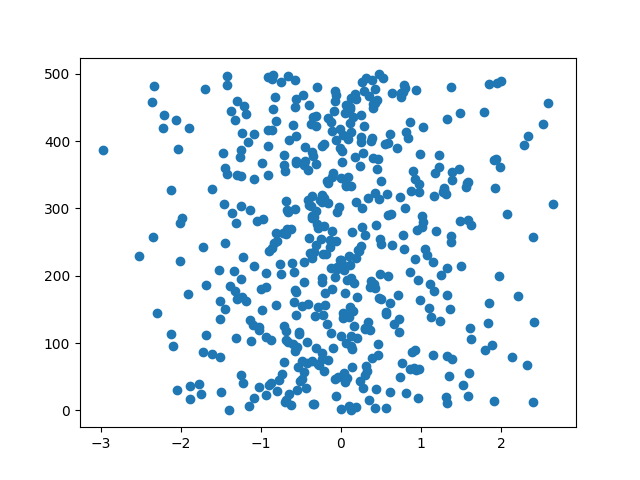
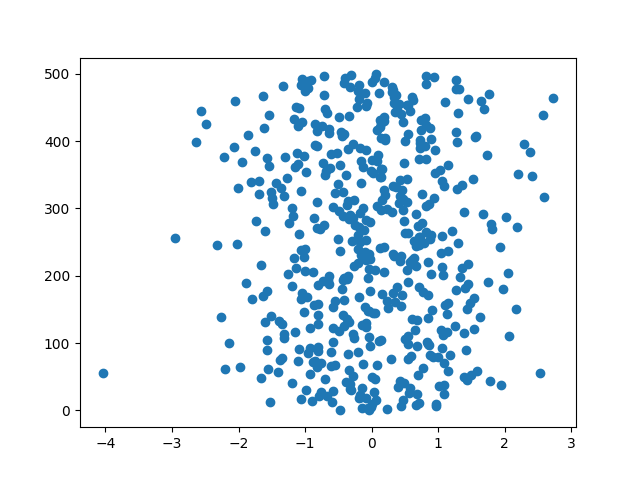
Sobol NEW normal works?

diff --git a/Normal_Sobol/Sobol_Gaussian.py b/Normal_Sobol/Sobol_Gaussian.py
@@ -104,27 +104,31 @@ class Random_generador(object):
         return data1
         ###########################################################
     def sobol_NEW_normal(self,scramble=False):
-        sampler = qmc.Sobol(d=1, scramble=scramble)
-        size_sobol = int(np.log(self.size)/np.log(2))
+        sampler = qmc.Sobol(d=2, scramble=scramble)
+        size_sobol = int(math.ceil(np.log(self.size/2)/np.log(2))) #int(np.log(self.size)/np.log(2))
         print("size = ",self.size," ;size Sobol = ",size_sobol)
-        sample1 = sampler.random_base2(m=size_sobol)
-        sample2 = sampler.random_base2(m=size_sobol)
+        sample = sampler.random_base2(m=size_sobol)
 
-        data1=[]
-        for u1,u2 in sample1,sample2:
+
+        data1=[0,0]
+        for i in (range(1,len(sample))):
+            u1 = sample[i][0]
+            u2 = sample[i][1]
             r = -np.sqrt(-2*np.log(u1))
             theta = 2*np.pi*u2
             data1.append(r*np.cos(theta))
             data1.append(r*np.sin(theta))
 
-
+        for i in (range(1,len(sample))):
+            plt.scatter(sample[i][0],sample[i][1])
+        plt.show()
         plt.hist(data1, bins=50)
-        print("Sobol graphics")
-        plt.savefig('Sobol_hist_{}.png'.format(self.size))
+        print("Sobol graphics:size=",self.size,'size_sobol=',size_sobol,'len data1=',len(data1))
+        plt.savefig('Sobol_NEW_hist_{}.png'.format(self.size))
         plt.show()
         plt.scatter(data1,range(len(data1)))
         print("Sobol graphics")
-        plt.savefig('Sobol_scatter_{}.png'.format(self.size))
+        plt.savefig('Sobol_NEW_scatter_{}.png'.format(self.size))
         plt.show()
         return data1
 # -------
@@ -357,12 +361,12 @@ def sobol_norm_rand6(size,n_modes,scramble=False):  # **** Diegom_test ****
 ################################################################################
 ################################################################################
 def main(args):
-    # calculos = Random_generador(500)
-    # calculos.sobol_normal(scramble=False)
-    # calculos.sobol_NEW_normal(scramble=False) !!!!!hay que terminarlo....
-    # calculos.random_normal()
-    # calculos.random_numpy_normal()
-    sobol_norm_rand6(100,2,scramble=False)
+    calculos = Random_generador(50)
+    calculos.sobol_normal(scramble=False)
+    calculos.sobol_NEW_normal(scramble=False) #!!!!!hay que terminarlo....
+    calculos.random_normal()
+    calculos.random_numpy_normal()
+    #sobol_norm_rand6(100,2,scramble=False)
     return 0
 
 if __name__ == '__main__':
